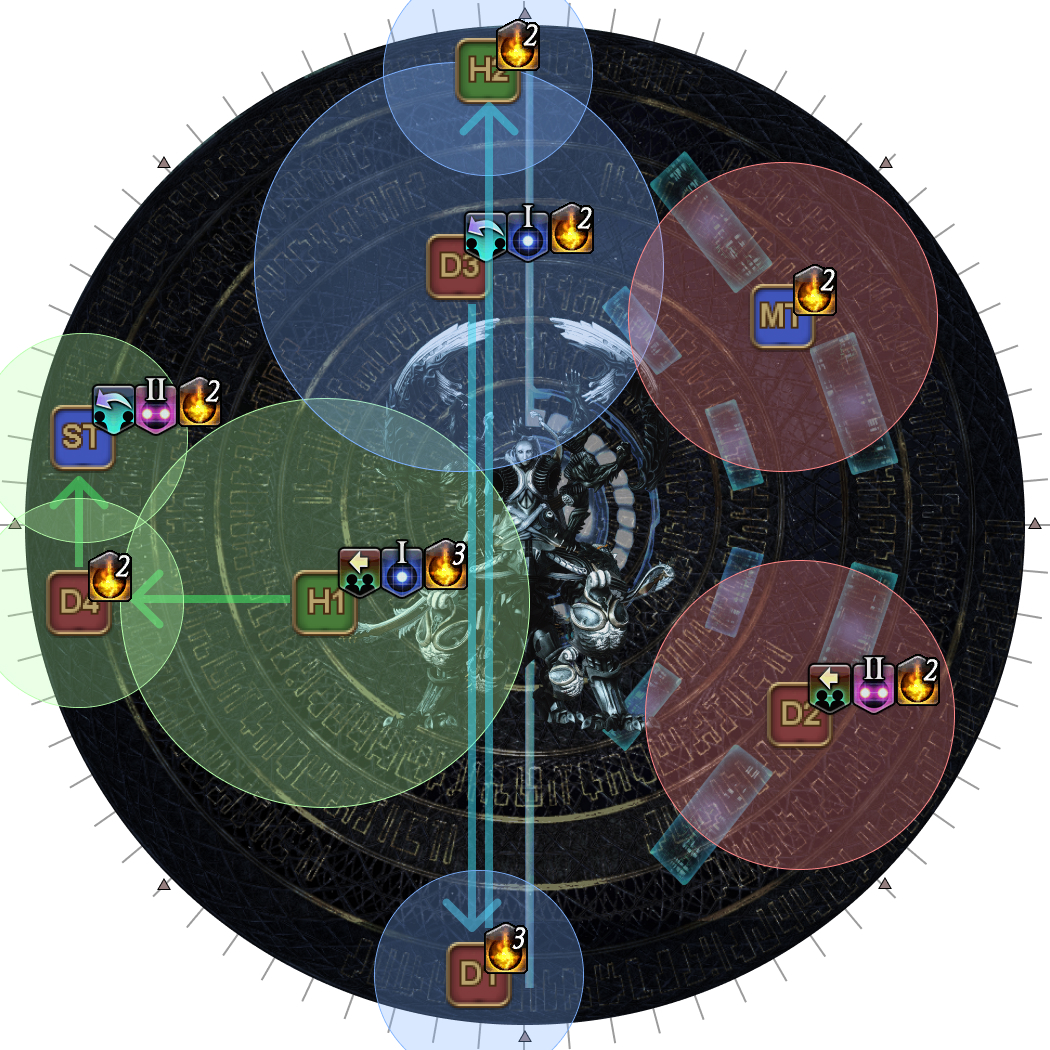
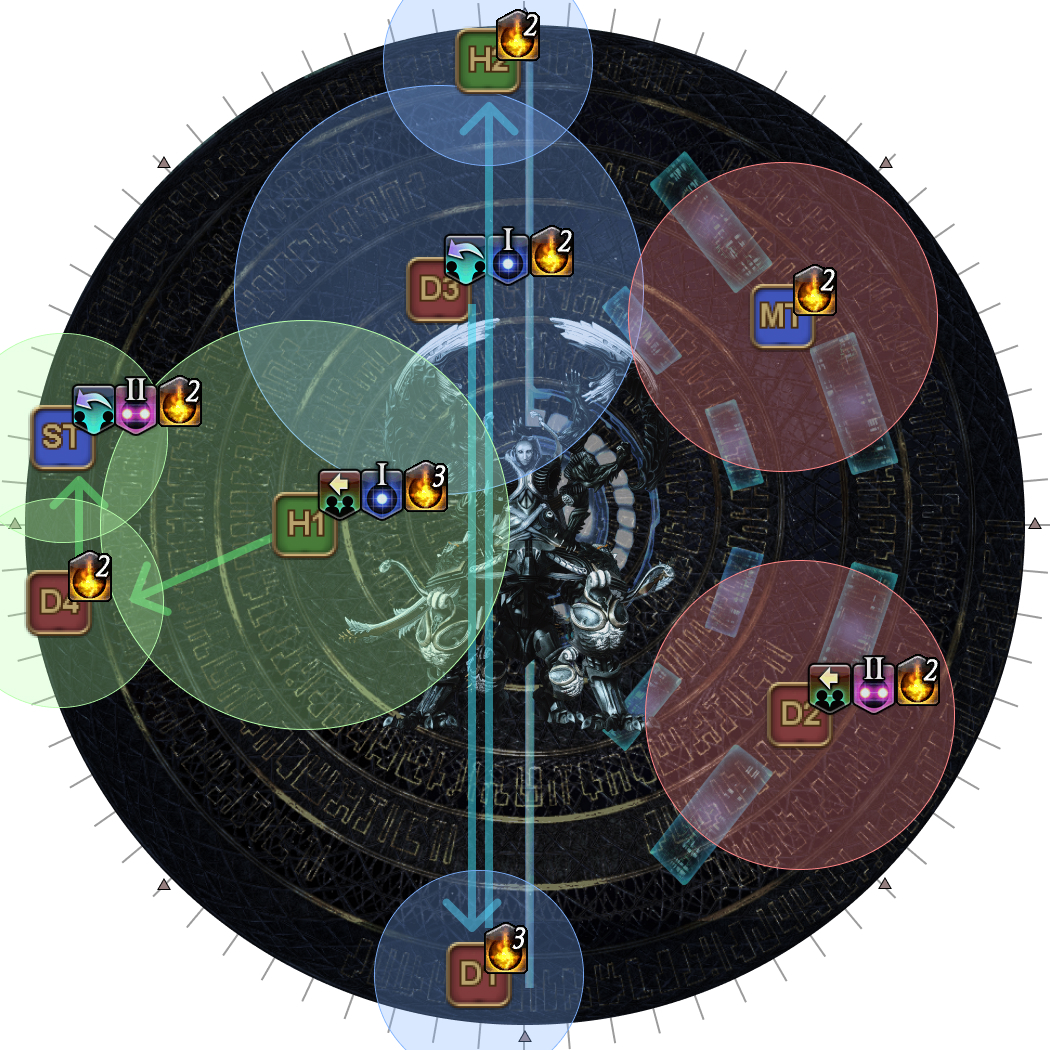
Fix Sigma jumps + Omega diagrams

diff --git a/ultimates/top/en/05_run_dynamis.md b/ultimates/top/en/05_run_dynamis.md
@@ -112,9 +112,10 @@ The following is the Kinda Awk strat:
 <div style="background-color: #200 ; padding: 10px; border: 1px solid;">
 <p><b>UNDER CONSTRUCTION!</b></p>
 <p>The strat is still in testing, and it is <b>likely</b> to change.</p>
+<p>(I also highly doubt that it will <em>actually</em> be picked up by PF when PF reaches this point, but I think the payoff is worth at least trying.)</p>
 </div>
 
-The following is the [ETO strat](https://youtu.be/lYVRUeyVfDs) used to resolve towers. It makes the first part a little more frontloaded in exchange for making the tower assignments very simple.
+The following is the [ETO strat](https://youtu.be/lYVRUeyVfDs) used to resolve towers. The strat frontloads some of the processing in exchange for making the tower assignments very simple.
 
 The first part is rather unusual, but it means that resolving the towers can be broken down into three rules:
 
@@ -126,22 +127,22 @@ The first part is rather unusual, but it means that resolving the towers can be 
 
 <table>
   <tr>
-    <td width="50%"><p><b>10.</b> Two arms will spawn, followed by an Omega-M clone.</p>
+    <td width="50%"><p><b>1.</b> Two arms will spawn, followed by an Omega-M clone.</p>
     <p><b>Use the Omega-M clone as North</b>. The two hands will always spawn south-west, and south-east.</p>
     <p>Line up in two rows of four.</p><p>If your row has duplicate Playstation symbols, the <b>right-most</b> player swaps.</p><p><em>(Equivalently, if your tether is going to the left, swap groups.)</em></p><p><em>In this example, the ST and D3 will swap groups.</em></p></td>
     <td><img src="../images/05_run_dynamis/run_dynamis_sigma_01.jpg"></td>
   </tr>
   <tr>
-    <td><p><b>11.</b> Arrange each row in order:</p><ul><li><b>Left:</b> 〇 > × > △ > □ <b>:Right</b></li></ul><p><em>(All tethers should now be vertical)</em></p></td>
+    <td><p><b>2.</b> Arrange each row in order:</p><ul><li><b>Left:</b> 〇 > × > △ > □ <b>:Right</b></li></ul><p><em>(All tethers should now be vertical)</em></p></td>
     <td><img src="../images/05_run_dynamis/run_dynamis_sigma_02.jpg"></td>
   </tr>
   <tr>
-    <td><p><b>12.</b> Six random players get marked, with each tether pair getting at least one marker.</p>
+    <td><p><b>3.</b> Six random players get marked, with each tether pair getting at least one marker.</p>
     <p>If your pair only has one marker, swap if needed to have the <b>non-marker</b> player north (away from the hands).</p><p><em>(In this example, H1 and D4 swapped rows.)</em></p></td>
     <td><img src="../images/05_run_dynamis/run_dynamis_sigma_03.jpg"></td>
   </tr>
   <tr>
-    <td><p><b>13.</b> The top row takes up their positions at the edge of the arena.</p>
+    <td><p><b>4.</b> The top row takes up their positions at the edge of the arena.</p>
     <p><em>All these positions will be between two markers.</em></p>
     <ul>
       <li>The <b>left-most</b> player <b>without a marker</b> goes NNW.</li>
@@ -155,23 +156,26 @@ The first part is rather unusual, but it means that resolving the towers can be 
 
 With the top row in position, the bottom row now takes up their positions, depending on whether the debuff is Remote, or Mid Glitch.
 
+- The bottom row will **always** go to the opposite E/W side as their tether partner
+- The bottom row may share the same N/S half as their tether partner, depending on whether the party has Mid Glitch (same N/S) or Remote Glitch (opposite N/S).
+
 ### Remote Glitch
 
 <table>
   <tr>
-    <td width="50%"><p><b>14a.</b> The bottom row takes up their positions <b>opposite</b> their tether partner.</p><p><em>The players at the north side (at the WNW and ENE sectors) are far enough to resolve Remote Glitch, but not so far that they steal the tethers from the arms.</em></p></td>
+    <td width="50%"><p><b>5a.</b> The bottom row takes up their positions <b>opposite</b> their tether partner.</p><p><em>The players at the north side (at the WNW and ENE sectors) are far enough to resolve Remote Glitch, but not so far that they steal the tethers from the arms.</em></p></td>
     <td><img src="../images/05_run_dynamis/run_dynamis_sigma_05a.jpg"></td>
   </tr>
   <tr>
-    <td><p><b>15a.</b> Lasers and Wave Cannons resolve.</p></td>
+    <td><p><b>6a.</b> Lasers and Wave Cannons resolve.</p></td>
     <td><img src="../images/05_run_dynamis/run_dynamis_sigma_06a.jpg"></td>
   </tr>
   <tr>
-    <td><p><b>16a.</b> Move into the center as Omega-F will teleport into the middle and knockback all players into their towers.</p></td>
+    <td><p><b>7a.</b> Move into the center as Omega-F will teleport into the middle and knockback all players into their towers.</p></td>
     <td><img src="../images/05_run_dynamis/run_dynamis_sigma_07a.jpg"></td>
   </tr>
   <tr>
-    <td><p><b>17a.</b> The tower rules are as such:</p><ol><li>Get knocked back to the <b>nearest</b> tower from you.</li><li>If there are two towers next to you, choose the tower that requires two players (these will be the two towers closest to the N/S poles).</li></ol></td>
+    <td><p><b>8a.</b> The tower rules are as such:</p><ol><li>Get knocked back to the <b>nearest</b> tower from you.</li><li>If there are two towers next to you, choose the tower that requires two players (these will be the two towers closest to the N/S poles).</li></ol></td>
     <td><img src="../images/05_run_dynamis/run_dynamis_sigma_08a.jpg"><img src="../images/05_run_dynamis/run_dynamis_sigma_09a.jpg"></td>
   </tr>
 </table>
@@ -180,19 +184,19 @@ With the top row in position, the bottom row now takes up their positions, depen
 
 <table>
   <tr>
-    <td width="50%"><p><b>14a.</b> The bottom row takes up their positions on the same north/southern half of the arena, across from their tether partner. The tethers should look criss-crossed.</p><p><em>These player will need to move in and out as needed to satisfy the Mid Glitch requirements (about two rings in from the edge)</em></p></td>
+    <td width="50%"><p><b>5b.</b> The bottom row takes up their positions on the same north/southern half of the arena, across from their tether partner. The tethers should look criss-crossed.</p><p><em>These player will need to move in and out as needed to satisfy the Mid Glitch requirements (about two rings in from the edge)</em></p></td>
     <td><img src="../images/05_run_dynamis/run_dynamis_sigma_05b.jpg"></td>
   </tr>
   <tr>
-    <td><p><b>15a.</b> Lasers and Wave Cannons resolve.</p></td>
+    <td><p><b>6b.</b> Lasers and Wave Cannons resolve.</p></td>
     <td><img src="../images/05_run_dynamis/run_dynamis_sigma_06b.jpg"></td>
   </tr>
   <tr>
-    <td><p><b>16a.</b> Move into the center as Omega-F will teleport into the middle and knockback all players into their towers.</p></td>
+    <td><p><b>7b.</b> Move into the center as Omega-F will teleport into the middle and knockback all players into their towers.</p></td>
     <td><img src="../images/05_run_dynamis/run_dynamis_sigma_07b.jpg"></td>
   </tr>
   <tr>
-    <td><p><b>17a.</b> The tower rules are as such:</p><ol><li>Get knocked back to the tower you came from.</li><li>If there is no tower at your position, take the tower <b>directly opposite</b>.</li></ol></td>
+    <td><p><b>8b.</b> The tower rules are as such:</p><ol><li>Get knocked back to the tower you came from.</li><li>If there is no tower at your position, take the tower <b>directly opposite</b>.</li></ol></td>
     <td><img src="../images/05_run_dynamis/run_dynamis_sigma_08b.jpg"><img src="../images/05_run_dynamis/run_dynamis_sigma_09b.jpg"></td>
   </tr>
 </table>
@@ -201,7 +205,7 @@ With the top row in position, the bottom row now takes up their positions, depen
 
 <table>
   <tr>
-    <td width="50%"><p><b>17.</b> Omega-F will spawn opposite two Right Arm Units and Omega's Rear Power Unit in the center.</p><p>Use Omega-F as North, and note whether Omega-F is in her blade-legs stance or not.</p>
+    <td width="50%"><p><b>9.</b> Omega-F will spawn opposite two Right Arm Units and Omega's Rear Power Unit in the center.</p><p>Use Omega-F as North, and note whether Omega-F is in her blade-legs stance or not.</p>
     <p>The party needs to organise themselves into three groups:</p>
     <ul>
       <li>A group of three goes to Omega-F's side.
@@ -209,26 +213,31 @@ With the top row in position, the bottom row now takes up their positions, depen
         <li>Two players will take the Right Arm Units' tethers. These two players <b>must</b> have a stack of Dynamis</li>
         <li>The remaining player will group with Hello, Distant World.</li></ul>
       </li>
-      <li>A group of three goes opposite Omega-F.
-        <ul><li>This group contains the player with Hello, Near World.</li></ul>
-      </li>
-      <li>A group of two goes opposite Omega-F.
-        <ul><li>This group contains the player with Hello, Distant World.</li></ul>
+      <li>The remaining five players go opposite Omega-F.
+        <ul>
+          <li>The two players with Hello, World debuffs stand a little towards the center of the arena to separate themselves from the remaining three.</li>
+          <li>The remaining three players briefly line up along the edge
+            <ul>
+              <li>The two players in front will follow the Hello, Near World player.</li>
+              <li>The player at the back will stay behind with the Hello, Distant World player.</li>
+            </ul>
+          </li>
+        </ul>
       </li>
     </ul></td>
-    <td><img src="../images/05_run_dynamis/run_dynamis_sigma_08.jpg"></td>
-  </tr>
-  <tr>
-    <td><p><b>18.</b> The Rear Power Unit will start firing a straight-line AoE while slowly rotating.</p>Depending on whether Omega-F has her blade-legs or not, either wait and stay outside <b>or</b> follow the Rear Power Unit's AoE.<p></p></td>
-    <td><img src="../images/05_run_dynamis/run_dynamis_sigma_09.jpg"></td>
-  </tr>
-  <tr>
-    <td><p><b>19.</b> After rotating and firing fourteen times, the Rear Power Unit will fire its last laser in this orientation.</p><p>Use this time to move into position to resolve Hello, World.</p></td>
     <td><img src="../images/05_run_dynamis/run_dynamis_sigma_10.jpg"></td>
   </tr>
   <tr>
-    <td><p><b>20.</b> Hello, World debuffs resolve along with the Right Arm Unit's lasers.</p><p>Done correctly:</p><ul><li>Four players will have one stack of Dynamis</li><li>The other four players will have two stacks of Dynamis.</li></ul></td>
+    <td><p><b>10.</b> The Rear Power Unit will start firing a straight-line AoE while slowly rotating.</p>Depending on whether Omega-F has her blade-legs or not, either wait and stay outside <b>or</b> follow the Rear Power Unit's AoE.<p></p></td>
     <td><img src="../images/05_run_dynamis/run_dynamis_sigma_11.jpg"></td>
+  </tr>
+  <tr>
+    <td><p><b>11.</b> After rotating and firing fourteen times, the Rear Power Unit will fire its last laser in this orientation.</p><p>Use this time to move into position to resolve Hello, World.</p></td>
+    <td><img src="../images/05_run_dynamis/run_dynamis_sigma_12.jpg"></td>
+  </tr>
+  <tr>
+    <td><p><b>12.</b> Hello, World debuffs resolve along with the Right Arm Unit's lasers.</p><p>Done correctly:</p><ul><li>Four players will have one stack of Dynamis</li><li>The other four players will have two stacks of Dynamis.</li></ul></td>
+    <td><img src="../images/05_run_dynamis/run_dynamis_sigma_13.jpg"></td>
   </tr>
 </table>
 
@@ -242,19 +251,19 @@ With the top row in position, the bottom row now takes up their positions, depen
 
 <table>
   <tr>
-    <td width="50%"><p><b>21.</b> Unlike Delta and Sigma, Omega-F will stay on the arena during this part of Omega.</p><p>Omega Reconfigured will spawn in the center, and a Omega-M/F pair will spawn at opposite intercardinal positions, again with a random Sword/Shield and Staff/Blade-Legs combo.</p></td>
+    <td width="50%"><p><b>1.</b> Unlike Delta and Sigma, Omega-F will stay on the arena during this part of Omega.</p><p>Omega Reconfigured will spawn in the center, and a Omega-M/F pair will spawn at opposite intercardinal positions, again with a random Sword/Shield and Staff/Blade-Legs combo.</p></td>
     <td><img src="../images/05_run_dynamis/run_dynamis_omega_01.jpg"></td>
   </tr>
   <tr>
-    <td><p><b>22.</b> A second Omega-M/F pair will spawn at the remaining two intercardinal positions, again with a random Sword/Shield and Staff/Blade-Legs combo.</p></td>
+    <td><p><b>2.</b> A second Omega-M/F pair will spawn at the remaining two intercardinal positions, again with a random Sword/Shield and Staff/Blade-Legs combo.</p></td>
     <td><img src="../images/05_run_dynamis/run_dynamis_omega_02.jpg"></td>
   </tr>
   <tr>
-    <td><p><b>23.</b> Omega will channel a Diffuse Wave Cannon ("lights") at two opposite cardinal directions.</p><p>This must be resolved together with the first Omega-M/F pair's AoEs.</p></td>
+    <td><p><b>3.</b> Omega will channel a Diffuse Wave Cannon ("lights") at two opposite cardinal directions.</p><p>This must be resolved together with the first Omega-M/F pair's AoEs.</p></td>
     <td><img src="../images/05_run_dynamis/run_dynamis_omega_03.jpg"></td>
   </tr>
   <tr>
-    <td><p><b>24.</b> The Omega Reconfigured will then repeat this at the other two cardinal directions, which must be resolved together with the second Omega-M/F pair's AoEs.</p></td>
+    <td><p><b>4.</b> The Omega Reconfigured will then repeat this at the other two cardinal directions, which must be resolved together with the second Omega-M/F pair's AoEs.</p></td>
     <td><img src="../images/05_run_dynamis/run_dynamis_omega_04.jpg"></td>
   </tr>
 </table>
@@ -291,19 +300,19 @@ With the top row in position, the bottom row now takes up their positions, depen
 
 <table>
   <tr>
-    <td width="50%"><p><b>25.</b> Omega will then present a single monitor set, to be resolved together with the first set of Hello, World debuffs.<ul><li>Two players with two Dynamis stacks take Omega's monitor hits.<ul><li>If there are player(s) with two Dynamis stacks <b>and</b> a second Hello, World debuff, they <b>must</b> take the monitors here.</li></ul></li></ul></p></td>
+    <td width="50%"><p><b>5.</b> Omega will then present a single monitor set, to be resolved together with the first set of Hello, World debuffs.<ul><li>Two players with two Dynamis stacks take Omega's monitor hits.<ul><li>If there are player(s) with two Dynamis stacks <b>and</b> a second Hello, World debuff, they <b>must</b> take the monitors here.</li></ul></li></ul></p></td>
     <td><img src="../images/05_run_dynamis/run_dynamis_omega_05.jpg"></td>
   </tr>
   <tr>
-    <td><p><b>26.</b> Hello, World debuffs resolve.</p><p>Done correctly, there should be:</p><ul><li>Two players with three Dynamis stacks.<ul><li>These players should <em>not</em> have the second set of Hello, World debuffs.</li></ul></li><li>The other six players should all have two Dynamis stacks.</li></ul></td>
+    <td><p><b>6.</b> Hello, World debuffs resolve.</p><p>Done correctly, there should be:</p><ul><li>Two players with three Dynamis stacks.<ul><li>These players should <em>not</em> have the second set of Hello, World debuffs.</li></ul></li><li>The other six players should all have two Dynamis stacks.</li></ul></td>
     <td><img src="../images/05_run_dynamis/run_dynamis_omega_06.jpg"></td>
   </tr>
   <tr>
-    <td><p><b>27.</b> Omega then spawns at the edge of the arena, and tethers to two players.</p><ul><li><b>Players with 3 stacks:</b> Take the tethers and stand beside Omega.</li><li><b>Everybody else:</b> Form up opposite Omega to resolve Hello, Worlds.</li></ul></td>
+    <td><p><b>7.</b> Omega then spawns at the edge of the arena, and tethers to two players.</p><ul><li><b>Players with 3 stacks:</b> Take the tethers and stand beside Omega.</li><li><b>Everybody else:</b> Form up opposite Omega to resolve Hello, Worlds.</li></ul></td>
     <td><img src="../images/05_run_dynamis/run_dynamis_omega_07.jpg"></td>
   </tr>
   <tr>
-    <td><p><b>28.</b> Hello, World debuffs resolve.</p><p>All players should now have three Dynamis stacks each.</p></td>
+    <td><p><b>8.</b> Hello, World debuffs resolve.</p><p>All players should now have three Dynamis stacks each.</p></td>
     <td><img src="../images/05_run_dynamis/run_dynamis_omega_08.jpg"></td>
   </tr>
 </table>
